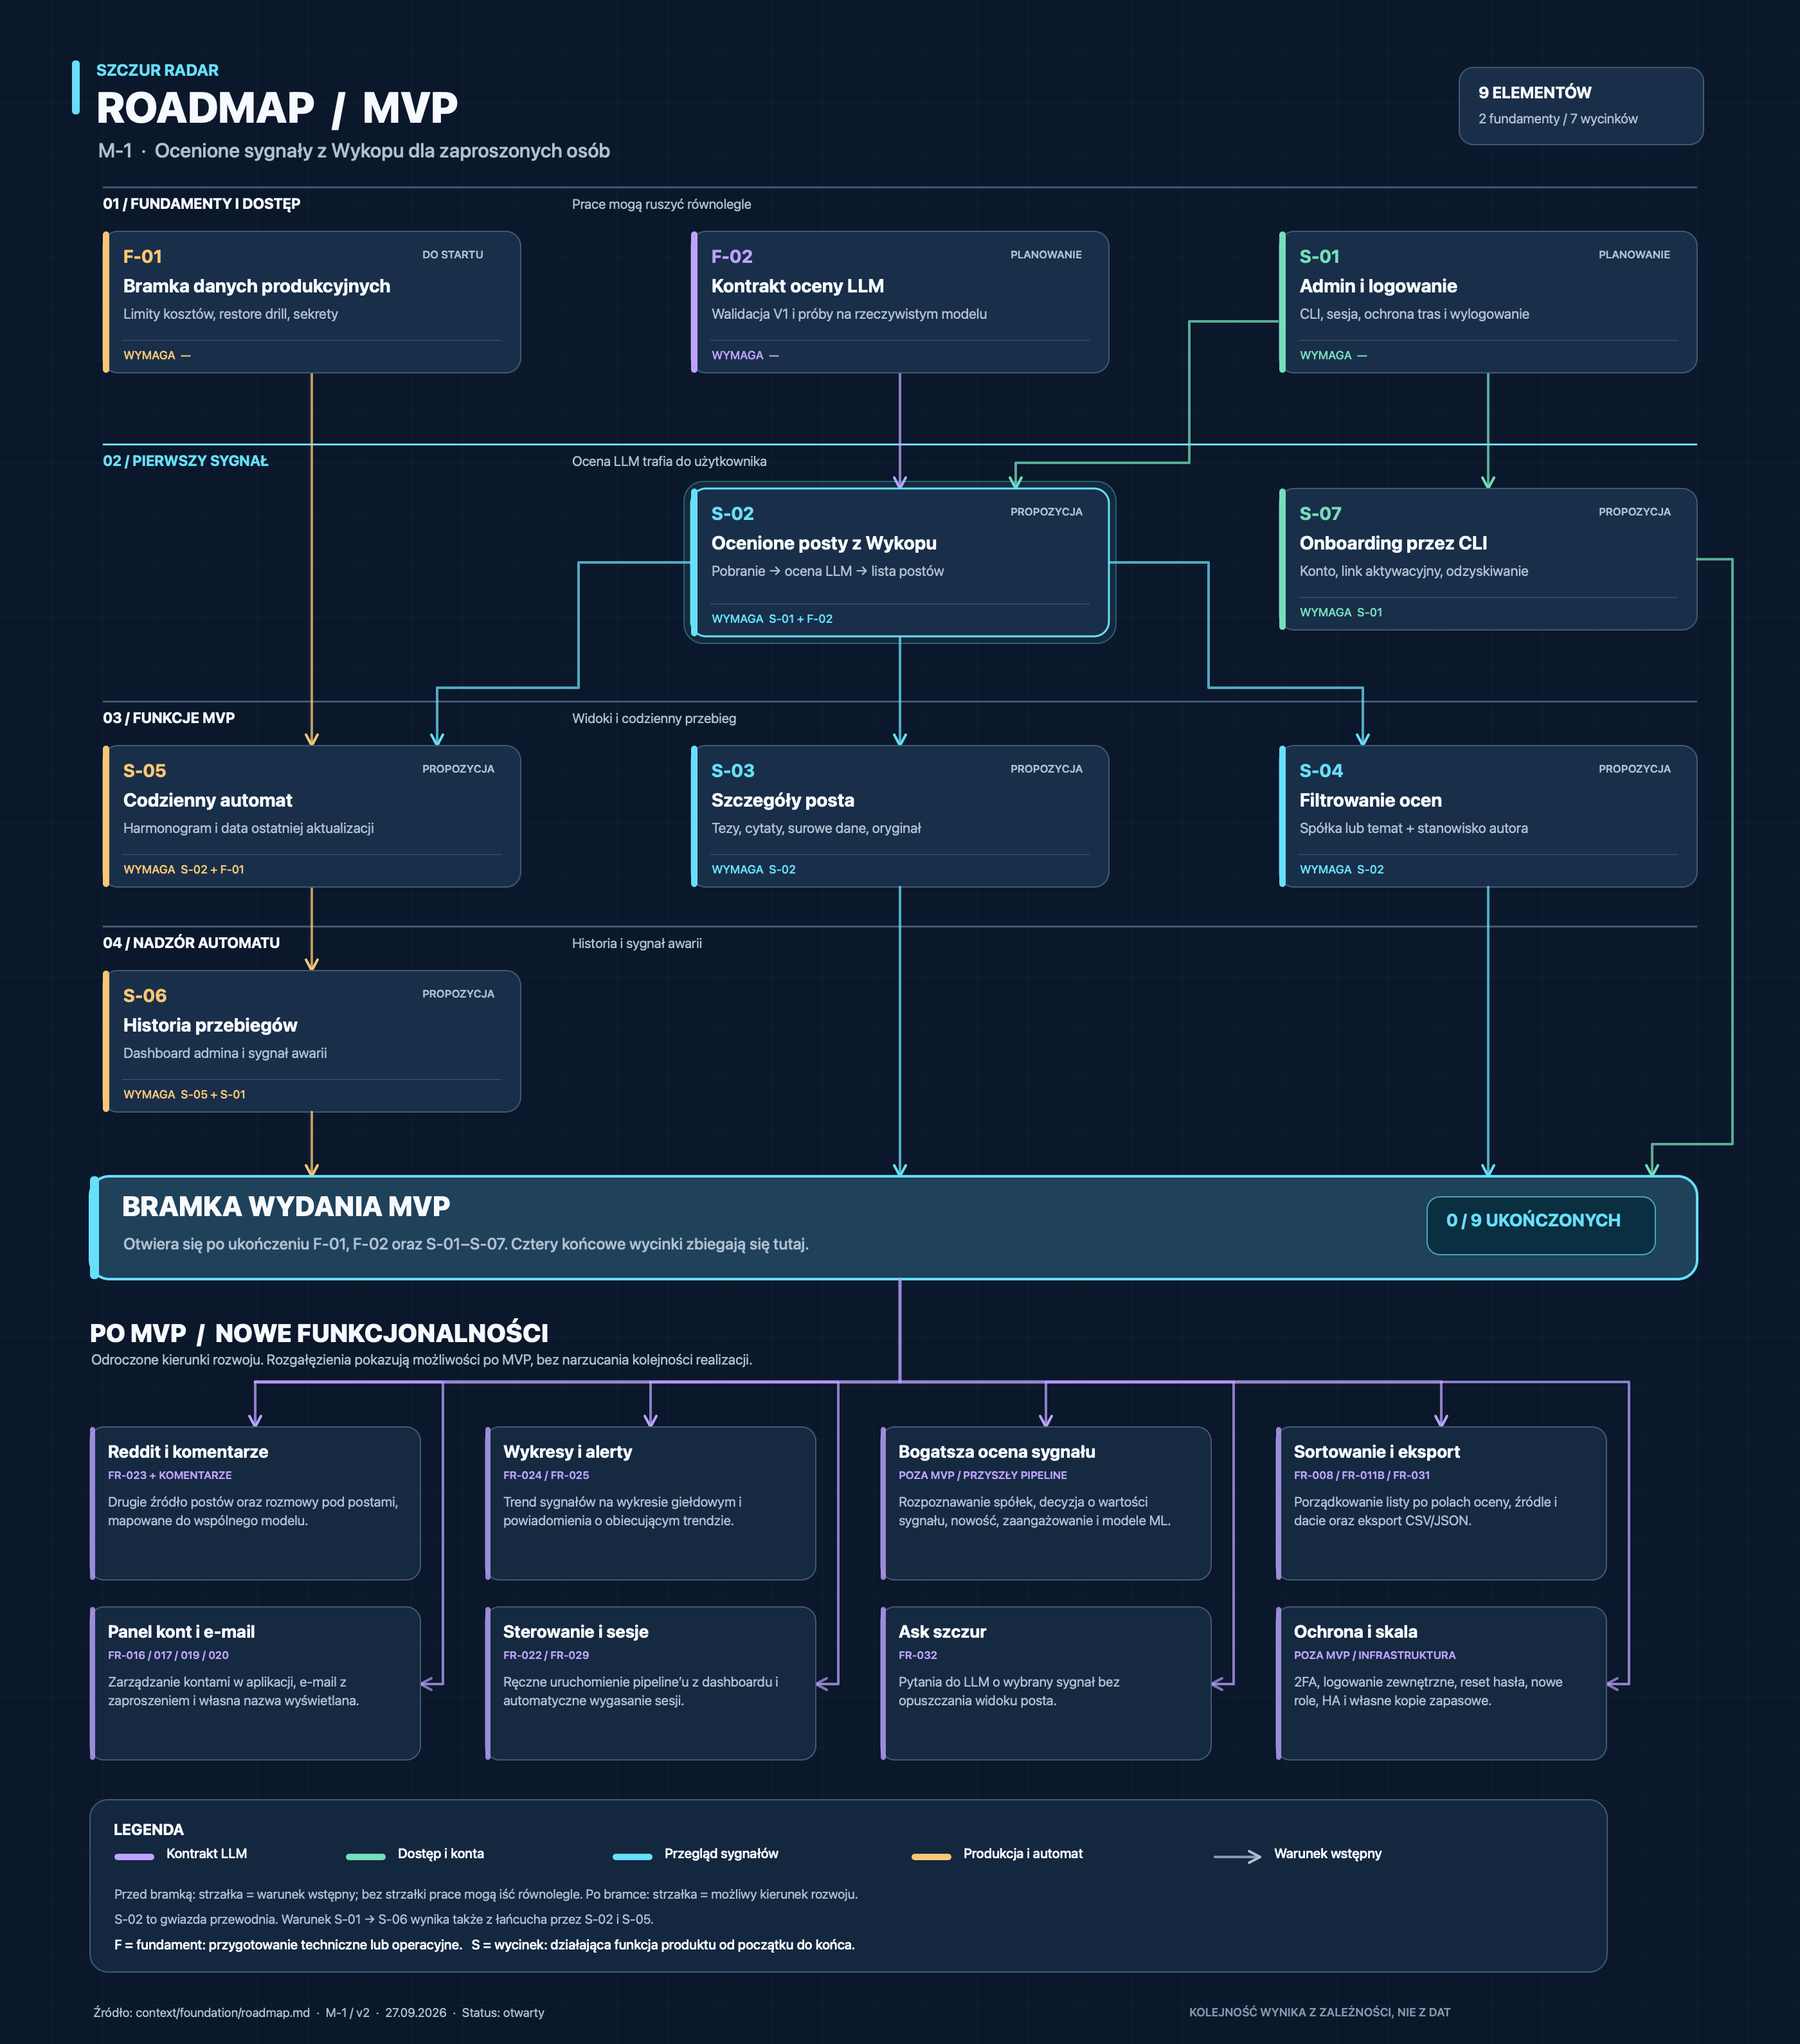
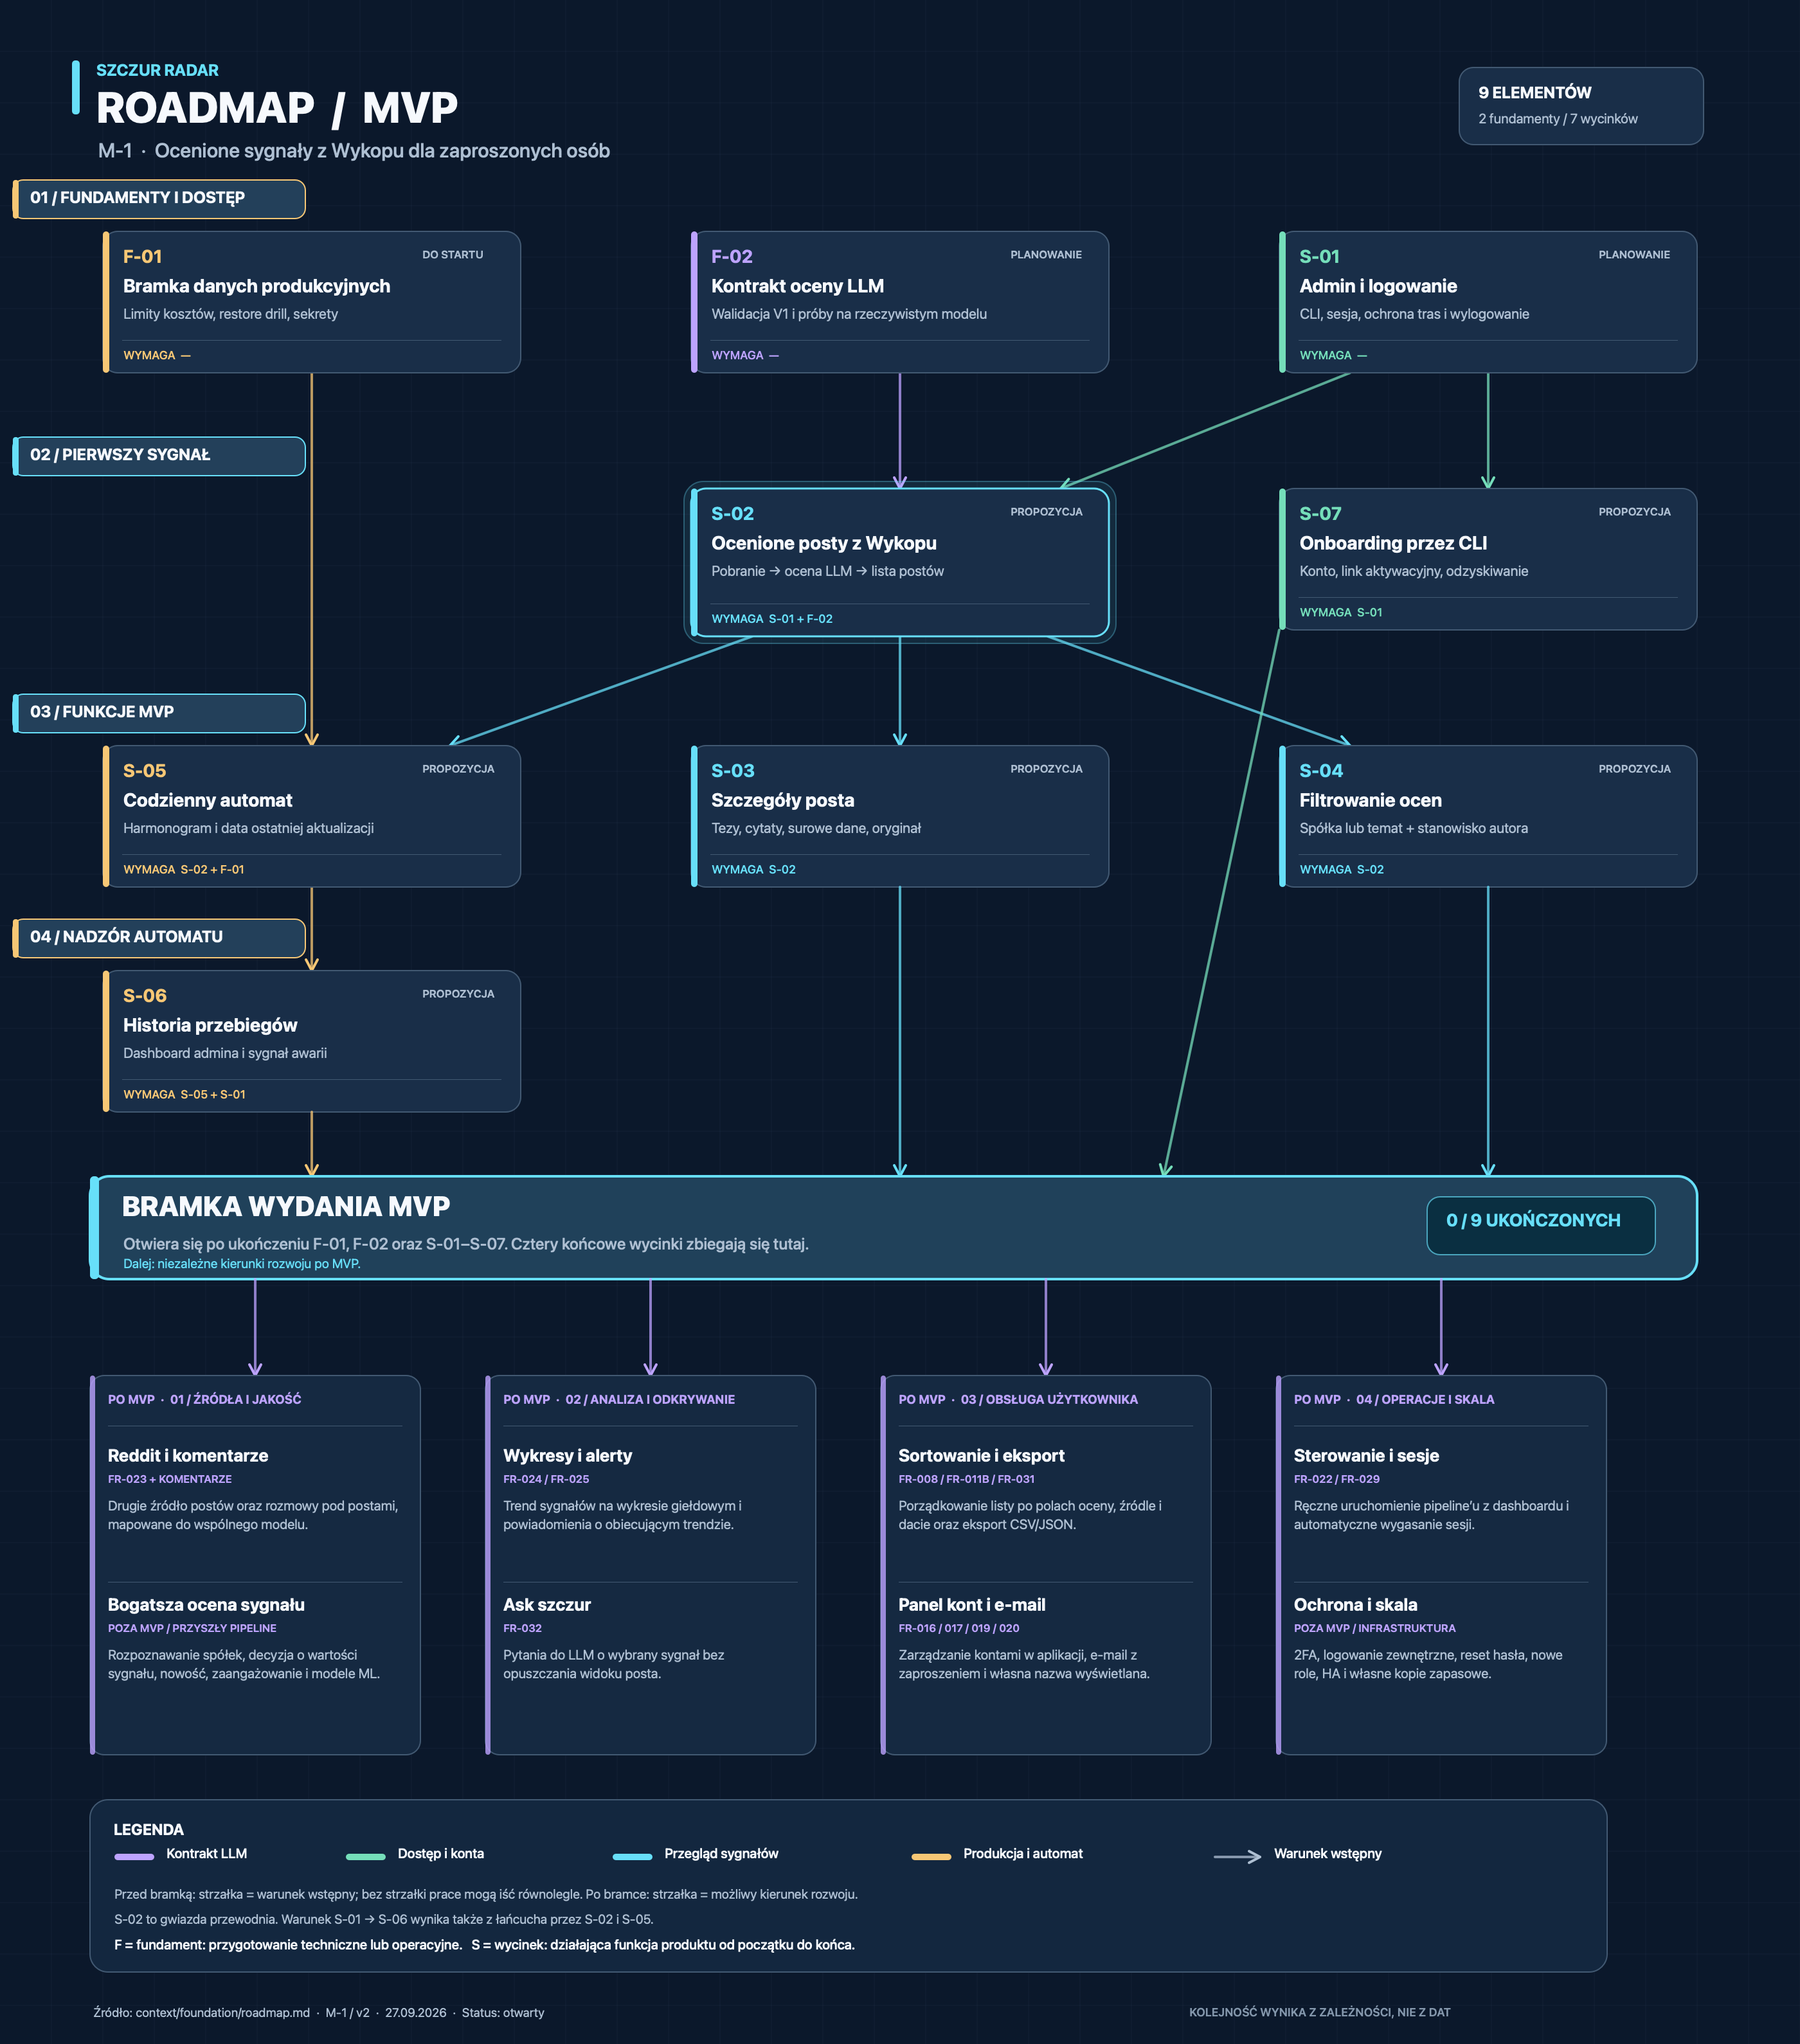
docs: simplify roadmap arrows and emphasize stages

diff --git a/tools/render_roadmap.swift b/tools/render_roadmap.swift
@@ -108,12 +108,11 @@ txt("2 fundamenty / 7 wycinków", 2300, 172, 320, 21, .regular, muted)
 let phaseX: [CGFloat] = [140, 755, 1370, 1985]
 let stageY: [CGFloat] = [290, 690, 1090, 1440]
 let stageTitle = ["01 / FUNDAMENTY I DOSTĘP", "02 / PIERWSZY SYGNAŁ", "03 / FUNKCJE MVP", "04 / NADZÓR AUTOMATU"]
-let stageSub = ["Prace mogą ruszyć równolegle", "Ocena LLM trafia do użytkownika", "Widoki i codzienny przebieg", "Historia i sygnał awarii"]
 for i in 0..<4 {
-    let accent = i == 1 ? cyan : stroke
-    rounded(160, stageY[i], 2480, 3, 0, accent)
-    txt(stageTitle[i], 160, stageY[i] + 13, 720, 23, .bold, i == 1 ? cyan : white)
-    txt(stageSub[i], 890, stageY[i] + 15, 1200, 21, .regular, muted)
+    let accent = [amber, cyan, cyan, amber][i]
+    rounded(20, stageY[i] - 10, 455, 60, 16, color(0x1B3048), accent, line: 2)
+    rounded(20, stageY[i] - 10, 9, 60, 4, accent)
+    txt(stageTitle[i], 47, stageY[i] + 2, 410, 25, .bold)
 }
 
 let cards: [Card] = [
@@ -128,14 +127,14 @@ let cards: [Card] = [
     Card(id:"S-06", title:"Historia przebiegów", detail:"Dashboard admina i sygnał awarii", req:"S-05 + S-01", status:"propozycja", x:160, y:1510, w:650, h:220, accent:amber, star:false)
 ]
 
-// Downward prerequisite arrows. Independent branches occupy separate columns.
+// Direct downward prerequisite arrows. Independent branches occupy separate columns.
 arrow([(485,580),(485,1160)], amber)
 arrow([(1400,580),(1400,760)], violet)
 arrow([(2315,580),(2315,760)], green)
-arrow([(1990,500),(1850,500),(1850,720),(1580,720),(1580,760)], green)
-arrow([(1075,875),(900,875),(900,1070),(680,1070),(680,1160)], cyan)
+arrow([(2100,580),(1650,760)], green)
+arrow([(1170,990),(700,1160)], cyan)
 arrow([(1400,990),(1400,1160)], cyan)
-arrow([(1725,875),(1880,875),(1880,1070),(2120,1070),(2120,1160)], cyan)
+arrow([(1630,990),(2100,1160)], cyan)
 arrow([(485,1380),(485,1510)], amber)
 // S-01 is an explicit additional prerequisite of S-06; its requirement is
 // printed on the S-06 card. The graph's transitive path already includes it.
@@ -145,51 +144,53 @@ for c in cards { card(c) }
 arrow([(485,1730),(485,1830)], amber)
 arrow([(1400,1380),(1400,1830)], cyan)
 arrow([(2315,1380),(2315,1830)], cyan)
-arrow([(2640,870),(2695,870),(2695,1780),(2570,1780),(2570,1830)], green)
+arrow([(1990,980),(1810,1830)], green)
 
 rounded(140, 1830, 2500, 160, 30, color(0x193148), cyan, line: 4)
 rounded(140, 1830, 14, 160, 6, cyan)
 txt("BRAMKA WYDANIA MVP", 190, 1850, 1280, 43, .heavy)
 txt("Otwiera się po ukończeniu F-01, F-02 oraz S-01–S-07. Cztery końcowe wycinki zbiegają się tutaj.",
     192, 1920, 1740, 25, .medium, muted)
+txt("Dalej: niezależne kierunki rozwoju po MVP.", 192, 1954, 1550, 20, .regular, cyan)
 rounded(2220, 1862, 355, 90, 20, color(0x0B2332), cyan.withAlphaComponent(0.65), line: 2)
 txt("0 / 9 UKOŃCZONYCH", 2250, 1882, 300, 27, .bold, cyan)
 
-txt("PO MVP  /  NOWE FUNKCJONALNOŚCI", 140, 2050, 1730, 39, .heavy)
-txt("Odroczone kierunki rozwoju. Rozgałęzienia pokazują możliwości po MVP, bez narzucania kolejności realizacji.",
-    142, 2102, 2270, 22, .regular, muted)
-path([(1400,1990),(1400,2150)], violet.withAlphaComponent(0.8), 5)
-path([(397,2150),(2242,2150)], violet.withAlphaComponent(0.8), 5)
 for x in [CGFloat(397), 1012, 1627, 2242] {
-    arrow([(x,2150),(x,2220)], violet)
-}
-for x in phaseX {
-    let middle = x + 257
-    let gutter = x + 549
-    arrow([(middle,2150),(gutter,2150),(gutter,2620),(x + 514,2620)], violet.withAlphaComponent(0.67))
+    arrow([(x,1990),(x,2140)], violet)
 }
 
 struct Parked {
     let title: String, refs: String, description: String
 }
-let parked: [Parked] = [
-    Parked(title:"Reddit i komentarze", refs:"FR-023 + komentarze", description:"Drugie źródło postów oraz rozmowy pod postami, mapowane do wspólnego modelu."),
-    Parked(title:"Wykresy i alerty", refs:"FR-024 / FR-025", description:"Trend sygnałów na wykresie giełdowym i powiadomienia o obiecującym trendzie."),
-    Parked(title:"Bogatsza ocena sygnału", refs:"Poza MVP / przyszły pipeline", description:"Rozpoznawanie spółek, decyzja o wartości sygnału, nowość, zaangażowanie i modele ML."),
-    Parked(title:"Sortowanie i eksport", refs:"FR-008 / FR-011b / FR-031", description:"Porządkowanie listy po polach oceny, źródle i dacie oraz eksport CSV/JSON."),
-    Parked(title:"Panel kont i e-mail", refs:"FR-016 / 017 / 019 / 020", description:"Zarządzanie kontami w aplikacji, e-mail z zaproszeniem i własna nazwa wyświetlana."),
-    Parked(title:"Sterowanie i sesje", refs:"FR-022 / FR-029", description:"Ręczne uruchomienie pipeline’u z dashboardu i automatyczne wygasanie sesji."),
-    Parked(title:"Ask szczur", refs:"FR-032", description:"Pytania do LLM o wybrany sygnał bez opuszczania widoku posta."),
-    Parked(title:"Ochrona i skala", refs:"Poza MVP / infrastruktura", description:"2FA, logowanie zewnętrzne, reset hasła, nowe role, HA i własne kopie zapasowe.")
+let parked: [(label: String, first: Parked, second: Parked)] = [
+    ("01 / ŹRÓDŁA I JAKOŚĆ",
+     Parked(title:"Reddit i komentarze", refs:"FR-023 + komentarze", description:"Drugie źródło postów oraz rozmowy pod postami, mapowane do wspólnego modelu."),
+     Parked(title:"Bogatsza ocena sygnału", refs:"Poza MVP / przyszły pipeline", description:"Rozpoznawanie spółek, decyzja o wartości sygnału, nowość, zaangażowanie i modele ML.")),
+    ("02 / ANALIZA I ODKRYWANIE",
+     Parked(title:"Wykresy i alerty", refs:"FR-024 / FR-025", description:"Trend sygnałów na wykresie giełdowym i powiadomienia o obiecującym trendzie."),
+     Parked(title:"Ask szczur", refs:"FR-032", description:"Pytania do LLM o wybrany sygnał bez opuszczania widoku posta.")),
+    ("03 / OBSŁUGA UŻYTKOWNIKA",
+     Parked(title:"Sortowanie i eksport", refs:"FR-008 / FR-011b / FR-031", description:"Porządkowanie listy po polach oceny, źródle i dacie oraz eksport CSV/JSON."),
+     Parked(title:"Panel kont i e-mail", refs:"FR-016 / 017 / 019 / 020", description:"Zarządzanie kontami w aplikacji, e-mail z zaproszeniem i własna nazwa wyświetlana.")),
+    ("04 / OPERACJE I SKALA",
+     Parked(title:"Sterowanie i sesje", refs:"FR-022 / FR-029", description:"Ręczne uruchomienie pipeline’u z dashboardu i automatyczne wygasanie sesji."),
+     Parked(title:"Ochrona i skala", refs:"Poza MVP / infrastruktura", description:"2FA, logowanie zewnętrzne, reset hasła, nowe role, HA i własne kopie zapasowe."))
 ]
-for (i, p) in parked.enumerated() {
-    let x = phaseX[i % 4]
-    let y: CGFloat = i < 4 ? 2220 : 2500
-    rounded(x, y, 514, 238, 22, color(0x111E32), stroke, line: 2)
-    rounded(x, y, 8, 238, 4, violet.withAlphaComponent(0.8))
-    txt(p.title, x + 28, y + 22, 458, 27, .bold)
-    txt(p.refs.uppercased(), x + 28, y + 65, 458, 17, .semibold, violet)
-    txt(p.description, x + 28, y + 104, 458, 21, .regular, muted)
+for (i, group) in parked.enumerated() {
+    let x = phaseX[i]
+    let y: CGFloat = 2140
+    rounded(x, y, 514, 590, 22, color(0x111E32), stroke, line: 2)
+    rounded(x, y, 8, 590, 4, violet.withAlphaComponent(0.8))
+    txt("PO MVP  ·  " + group.label, x + 28, y + 26, 458, 19, .bold, violet)
+    rounded(x + 28, y + 78, 458, 1, 0, stroke)
+    let features = [group.first, group.second]
+    for (j, p) in features.enumerated() {
+        let top = y + (j == 0 ? 108 : 340)
+        txt(p.title, x + 28, top, 458, 27, .bold)
+        txt(p.refs.uppercased(), x + 28, top + 43, 458, 17, .semibold, violet)
+        txt(p.description, x + 28, top + 82, 458, 21, .regular, muted)
+    }
+    rounded(x + 28, y + 321, 458, 1, 0, stroke)
 }
 
 rounded(140, 2800, 2360, 268, 28, color(0x101D30), stroke, line: 2)
